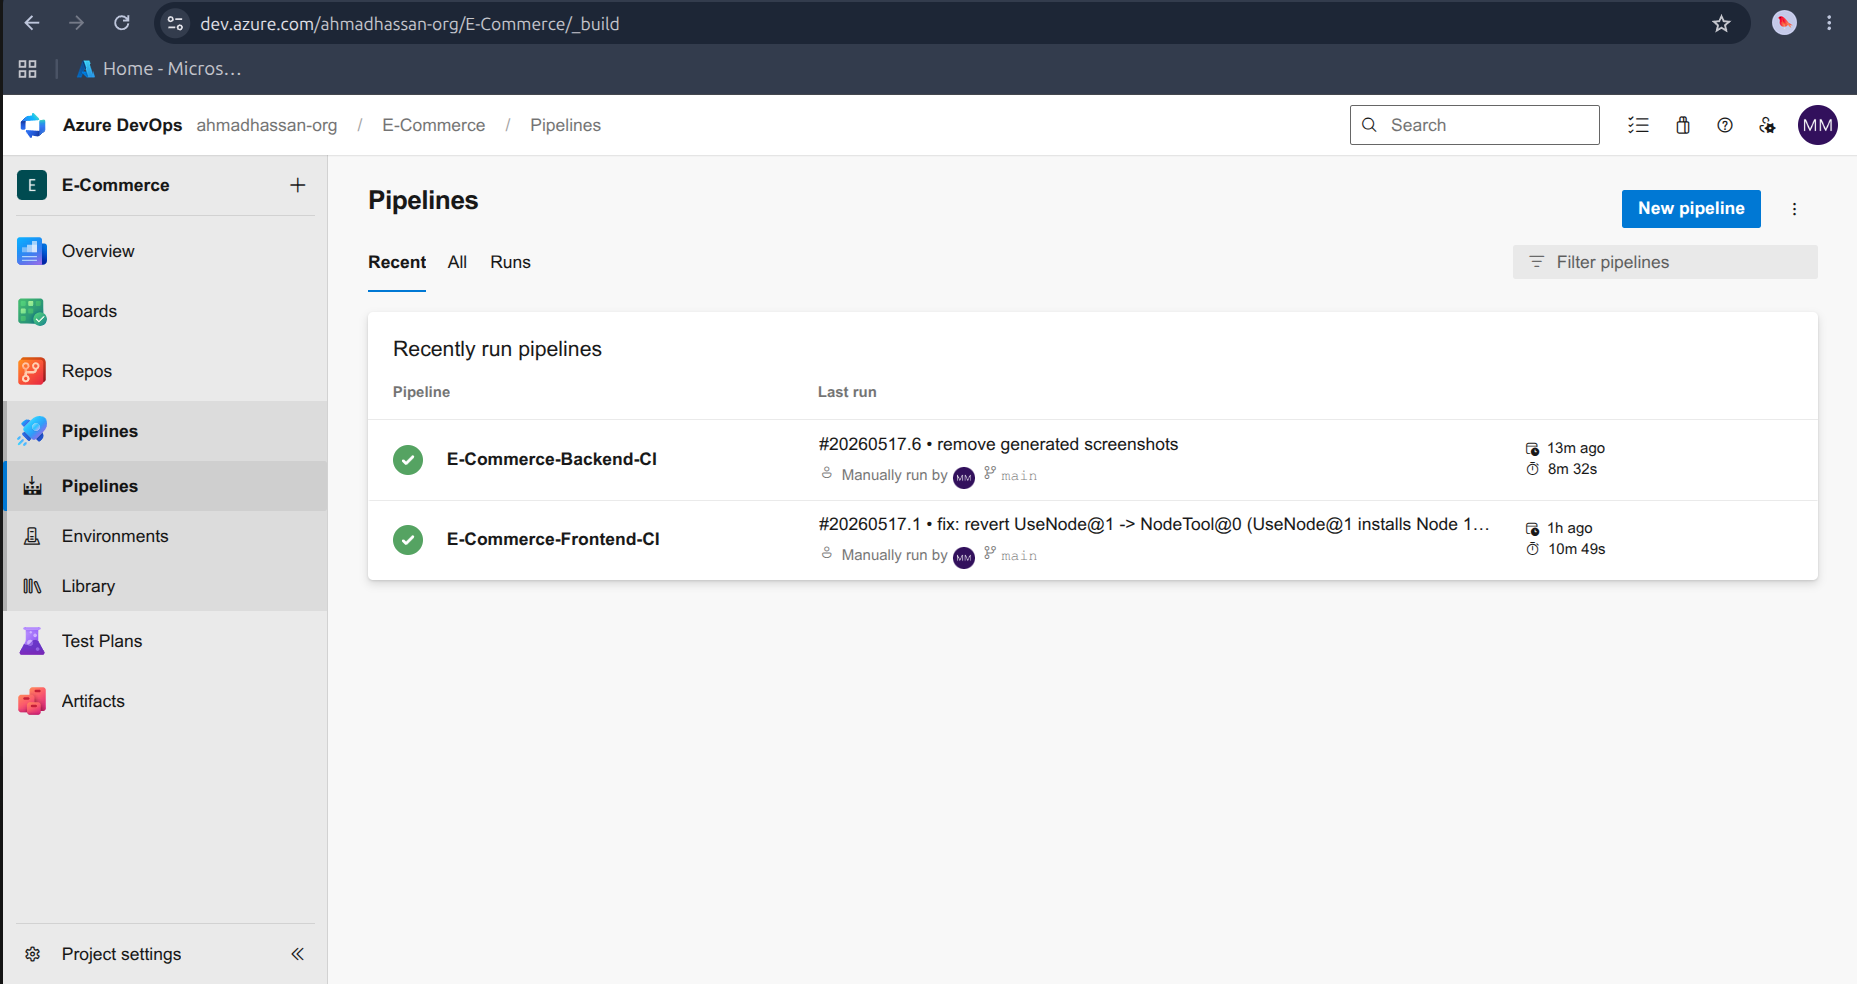
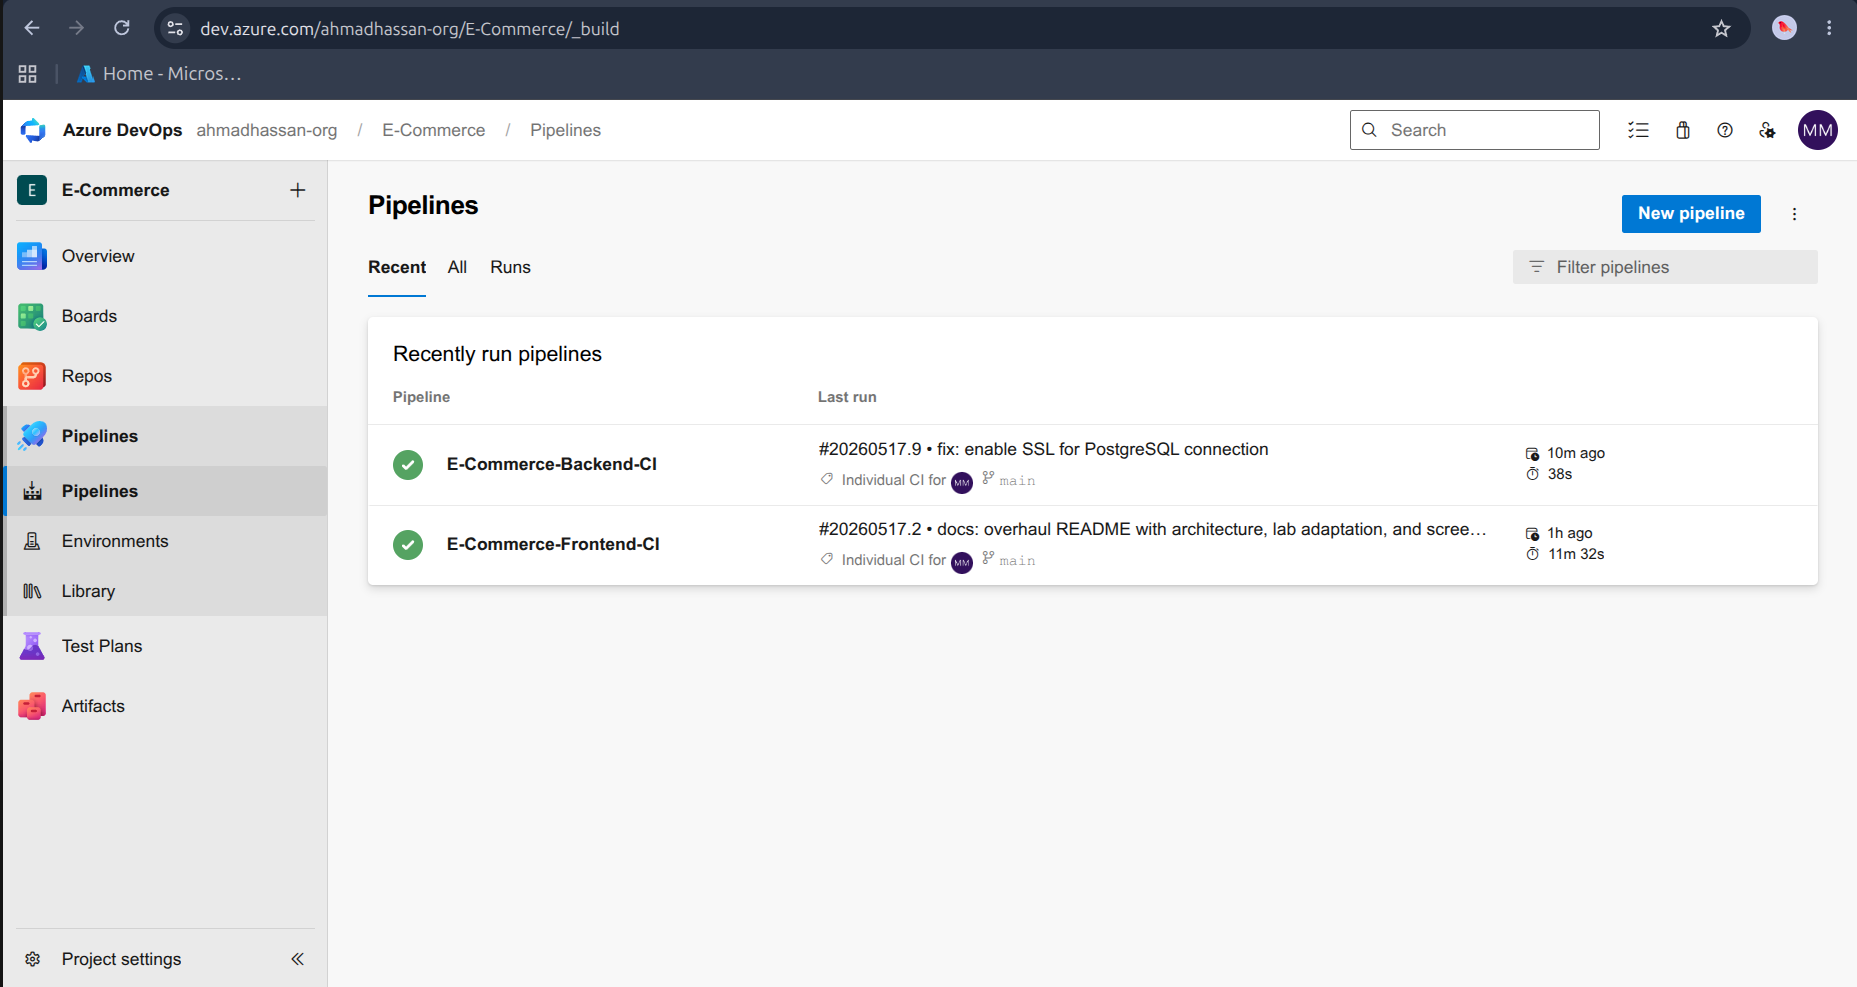
feat(infra): add Terraform configuration to manage Azure resources
Add Terraform IaC for all existing Azure resources with remote state
backend. Imported via terraform import — zero-drift verified.

diff --git a/README.md b/README.md
@@ -17,6 +17,8 @@ A full-stack eCommerce solution built with the PERN stack (PostgreSQL, Express, 
 ## Table of Contents
 - [Key Features](#key-features)
 - [Tech Stack](#tech-stack)
+- [Infrastructure as Code (Terraform)](#infrastructure-as-code-terraform)
+- [Git Flow Strategy](#git-flow-strategy)
 - [Lab Adaptation Highlights](#lab-adaptation-highlights)
 - [Local Development](#local-development)
 - [Docker Workflow](#docker-workflow)
@@ -48,8 +50,27 @@ A full-stack eCommerce solution built with the PERN stack (PostgreSQL, Express, 
 | Database | PostgreSQL (Azure Flexible Server) |
 | Authentication | JWT, Google OAuth 2.0 |
 | Payments | Stripe API |
-| Infrastructure | Docker, Azure App Service |
+| Infrastructure | Terraform, Docker, Azure App Service |
 | CI/CD | Azure DevOps (YAML Pipelines) |
+
+---
+
+## Infrastructure as Code (Terraform)
+The infrastructure is fully provisioned using Terraform. All resources, including App Services, PostgreSQL Flexible Server, and Azure Key Vault, are defined in declarative configuration files to ensure repeatable, version-controlled deployments.
+
+- **Status Verification:** `terraform plan` confirms that the local configuration perfectly matches the deployed Azure environment.
+- **Traceability:** Resources are tagged with `ManagedBy: terraform` and `Project: ecommerce` for auditability.
+- **State Management:** Terraform state is securely stored in a remote Azure Blob Storage container.
+
+---
+
+## Git Flow Strategy
+The project follows a structured branching strategy to maintain code stability:
+- **main**: Source of truth for production code.
+- **develop**: Integration branch for features and testing.
+- **feature/**: Dedicated branches for individual tasks to maintain isolation before merging.
+
+![Git Branch Structure](images/git-branches.png)
 
 ---
 
@@ -139,7 +160,8 @@ Detailed environment configuration for both Client and Server can be found in th
 ![Resource Group](images/resources.png)
 
 ### Pipeline Execution
-![Pipeline Run](images/deployments/pipeline-successful-run.png)
+![Pipeline Run 1](images/deployments/pipeline-successful-run.png)
+![Pipeline Run 2](images/deployments/pipelines_successful_run_02.png)
 
 ### Azure Container Registry
 <p align="center">